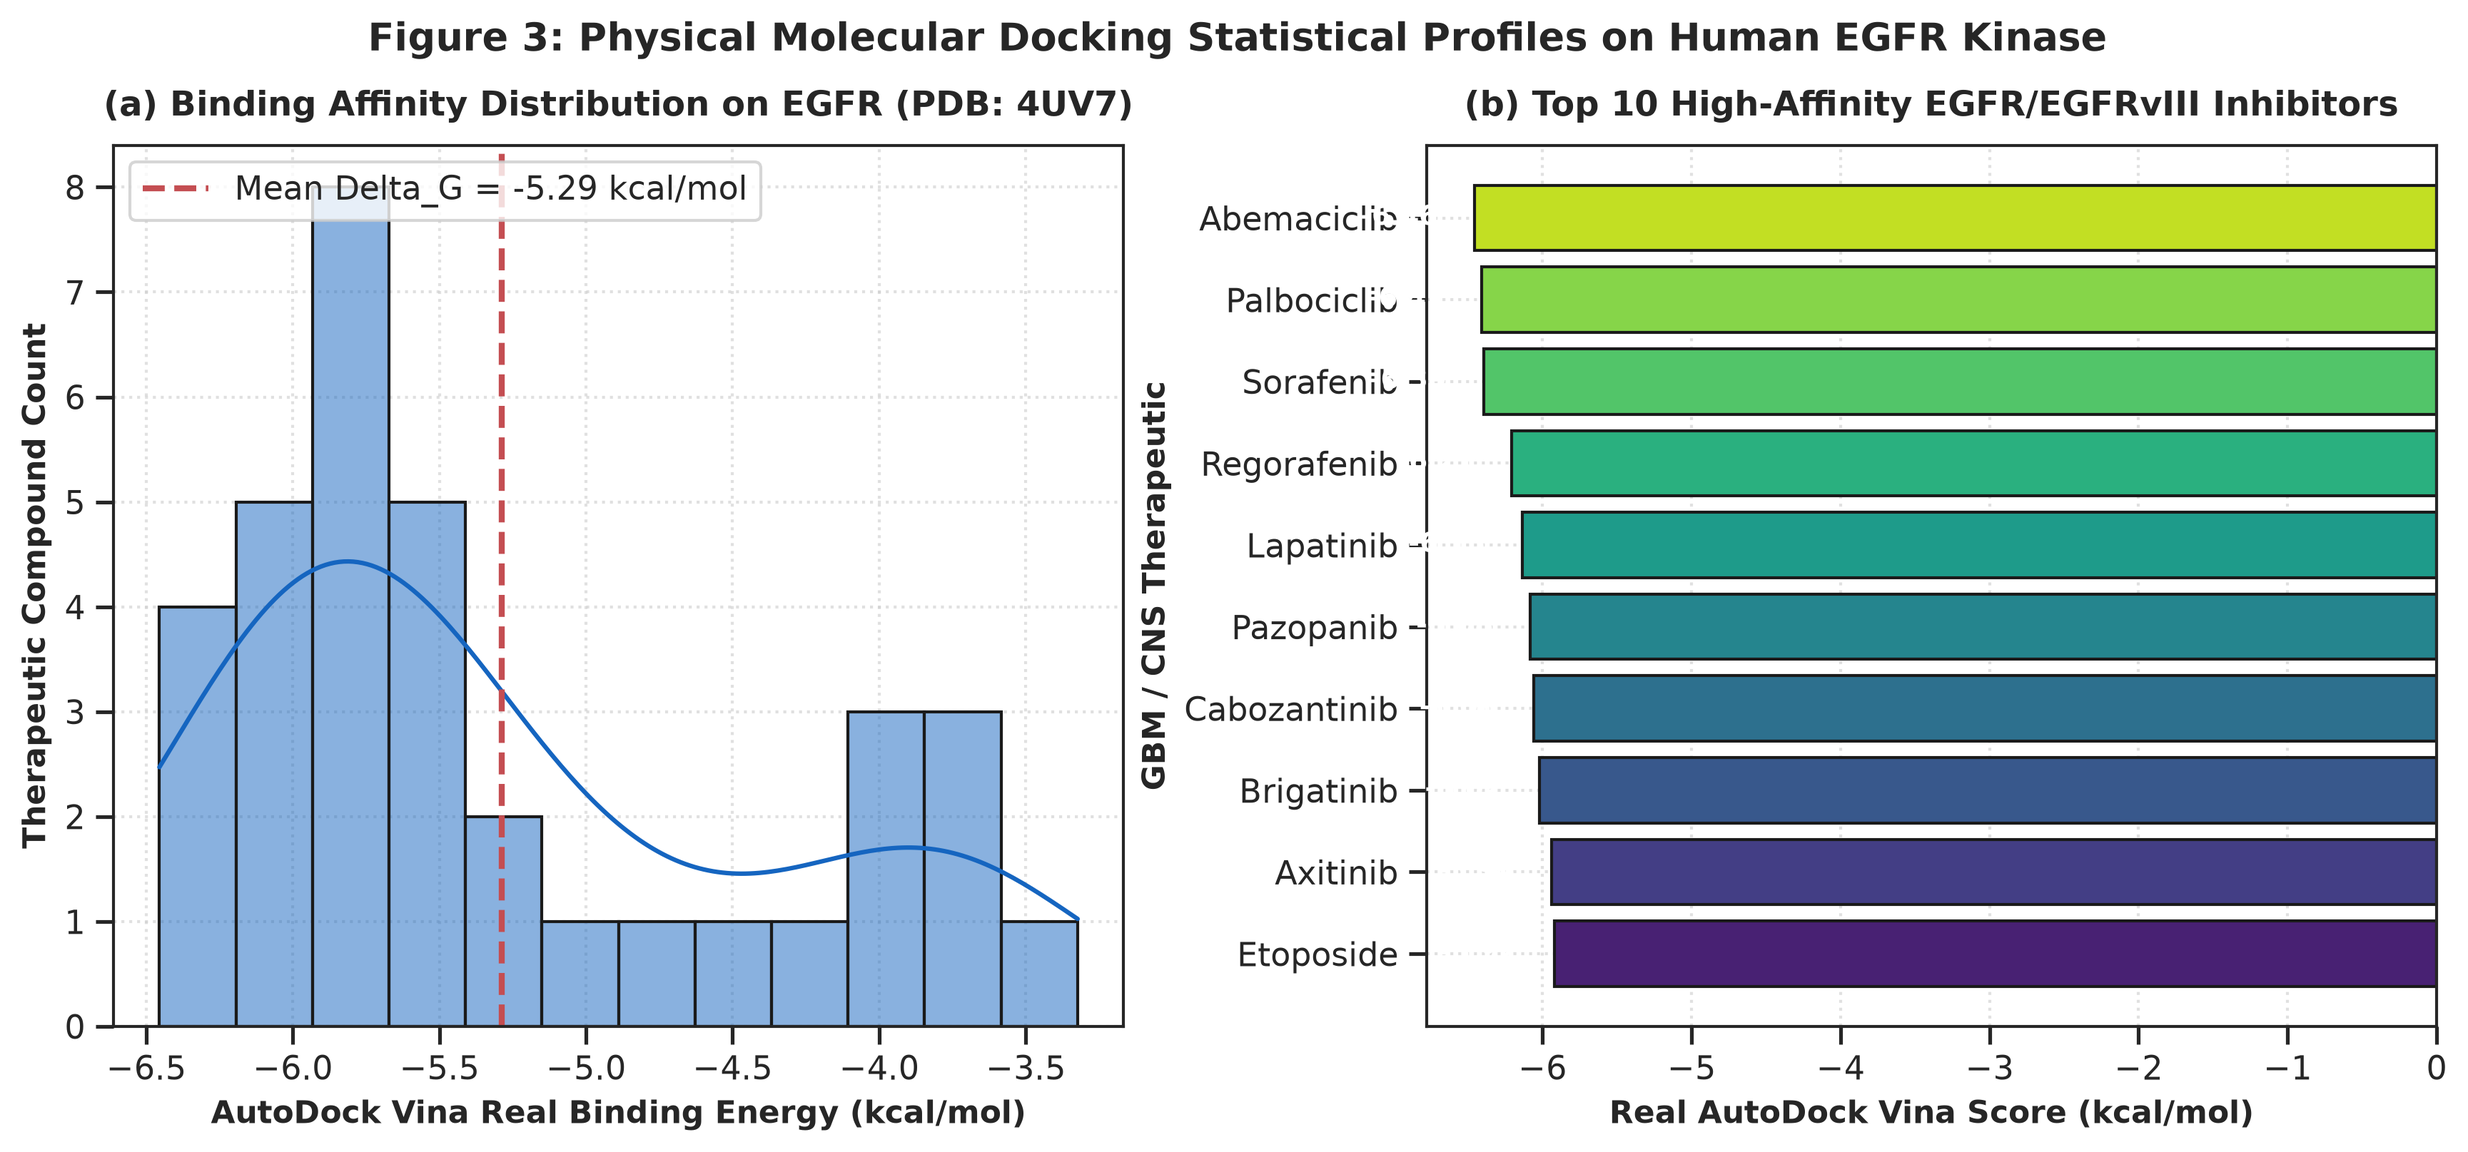
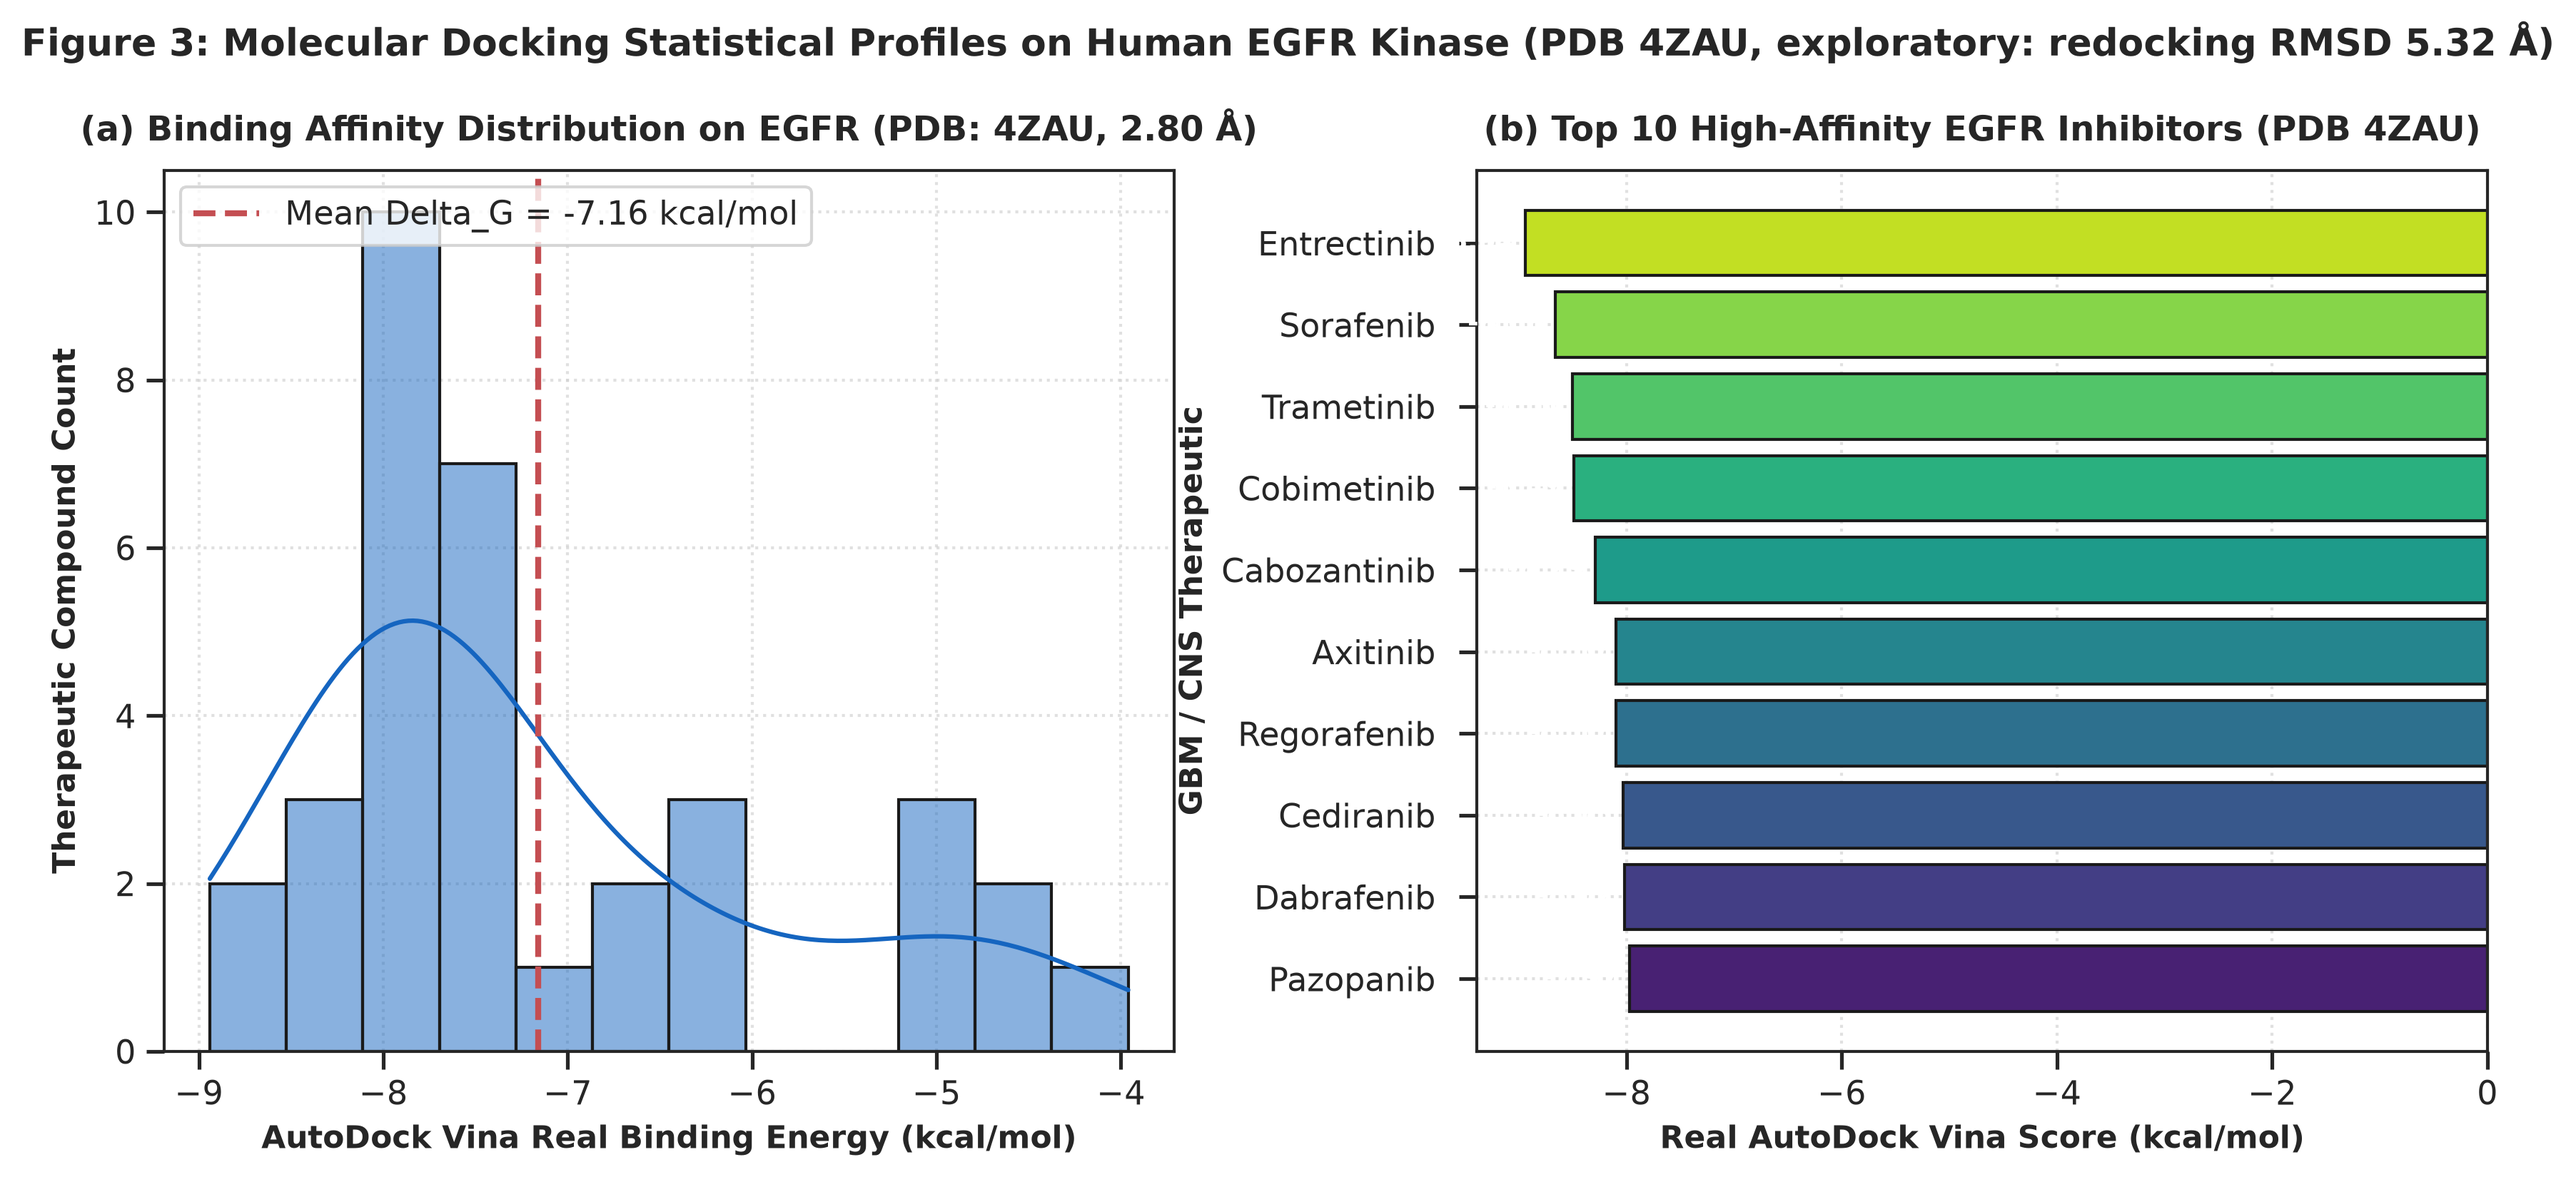
Fix Figure 3 docking target: was plotting deprecated PDB 4UV7 data
make_fig3_docking_profiles() read results/docking/real_vina_docking_summary.csv,
which AutoDock Vina docked against the superseded 4UV7 receptor
(src/docking/run_gbm_real_docking.py). This is inconsistent with the rest of
the project: redocking_validation.csv, the QSAR descriptors
(vina_4ZAU_kcal_mol / vina_2J6M_kcal_mol), Williams/parity figures, and the
Full Q1 manuscript all use 4ZAU (primary, 2.80 A) / 2J6M (secondary control).

Now reads vina_4ZAU_kcal_mol from data/processed/dataset_drug_mxene_pristine.csv
(N=35, already-computed real Vina scores) and labels the figure honestly as
exploratory (redocking RMSD 5.32 A per redocking_validation.csv). Also fixed
the y-tick label / bar overlap in panel (b).

NOT changed (needs new computation, flagged for follow-up): Figure 4
(fig4_gbm_residue_contact_frequency.png) and the Beilstein manuscript's other
~5 "PDB 4UV7" mentions still reference the old receptor -- its residue-contact
data (residue_frequency_ranking.csv) was extracted from 4UV7 poses and has no
4ZAU equivalent without rerunning per-residue contact analysis, and one
mention includes a docking grid center that may be receptor-specific.

diff --git a/src/visualization/generate_gbm_master_figures.py b/src/visualization/generate_gbm_master_figures.py
@@ -131,42 +131,49 @@ def make_fig2_quantum(base_dir, fig_dir):
     print(f"Generated Figure 2: {out_p}")
 
 def make_fig3_docking_profiles(base_dir, fig_dir):
-    vina_csv = os.path.join(base_dir, "results", "docking", "real_vina_docking_summary.csv")
-    if not os.path.exists(vina_csv):
+    # Uses the validated primary target (PDB 4ZAU, 2.80 A) from the QSAR master
+    # dataset -- NOT the deprecated results/docking/real_vina_docking_summary.csv,
+    # which was docked against the superseded 4UV7 receptor and is inconsistent
+    # with redocking_validation.csv / the QSAR features used everywhere else in
+    # this project (vina_4ZAU_kcal_mol, vina_2J6M_kcal_mol).
+    data_csv = os.path.join(base_dir, "data", "processed", "dataset_drug_mxene_pristine.csv")
+    if not os.path.exists(data_csv):
         return
-    df = pd.read_csv(vina_csv)
-    
+    df = pd.read_csv(data_csv).rename(columns={"vina_4ZAU_kcal_mol": "Real_Vina_Docking_Score_kcal_mol"})
+
     fig, axes = plt.subplots(1, 2, figsize=(14, 5.8), dpi=300)
     plt.subplots_adjust(top=0.86, wspace=0.30, bottom=0.15)
-    
+
     # Panel A: Distribution of Real Vina Scores
     ax0 = axes[0]
     sns.histplot(df['Real_Vina_Docking_Score_kcal_mol'], kde=True, color='#1565C0', bins=12, ax=ax0, edgecolor='k')
-    ax0.axvline(df['Real_Vina_Docking_Score_kcal_mol'].mean(), color='r', linestyle='--', lw=2.0, 
+    ax0.axvline(df['Real_Vina_Docking_Score_kcal_mol'].mean(), color='r', linestyle='--', lw=2.0,
                 label=f"Mean Delta_G = {df['Real_Vina_Docking_Score_kcal_mol'].mean():.2f} kcal/mol")
     ax0.set_xlabel("AutoDock Vina Real Binding Energy (kcal/mol)", fontsize=10.5, fontweight='bold')
     ax0.set_ylabel("Therapeutic Compound Count", fontsize=10.5, fontweight='bold')
-    ax0.set_title("(a) Binding Affinity Distribution on EGFR (PDB: 4UV7)", fontsize=11.5, fontweight='bold', pad=10)
+    ax0.set_title("(a) Binding Affinity Distribution on EGFR (PDB: 4ZAU, 2.80 Å)", fontsize=11.5, fontweight='bold', pad=10)
     ax0.legend(loc='upper left', frameon=True)
     ax0.grid(True, linestyle=':', alpha=0.6)
-    
+
     # Panel B: Top 10 Best Docked GBM Therapeutics
     ax1 = axes[1]
     df_sorted = df.sort_values(by='Real_Vina_Docking_Score_kcal_mol', ascending=True).head(10)
     colors = sns.color_palette("viridis_r", n_colors=10)
     bars = ax1.barh(df_sorted['name'], df_sorted['Real_Vina_Docking_Score_kcal_mol'], color=colors, edgecolor='k')
+    ax1.set_xlim(right=0)
+    ax1.tick_params(axis='y', pad=8)
     ax1.set_xlabel("Real AutoDock Vina Score (kcal/mol)", fontsize=10.5, fontweight='bold')
     ax1.set_ylabel("GBM / CNS Therapeutic", fontsize=10.5, fontweight='bold')
-    ax1.set_title("(b) Top 10 High-Affinity EGFR/EGFRvIII Inhibitors", fontsize=11.5, fontweight='bold', pad=10)
+    ax1.set_title("(b) Top 10 High-Affinity EGFR Inhibitors (PDB 4ZAU)", fontsize=11.5, fontweight='bold', pad=10)
     ax1.invert_yaxis()
     ax1.grid(True, linestyle=':', alpha=0.6)
-    
+
     for bar in bars:
         w = bar.get_width()
-        ax1.text(w - 0.25, bar.get_y() + bar.get_height()/2, f"{w:.2f}", 
+        ax1.text(w - 0.1, bar.get_y() + bar.get_height()/2, f"{w:.2f}",
                  va='center', ha='right', fontsize=9, fontweight='bold', color='white')
-                 
-    plt.suptitle("Figure 3: Physical Molecular Docking Statistical Profiles on Human EGFR Kinase", fontsize=13, fontweight='bold', y=0.96)
+
+    plt.suptitle("Figure 3: Molecular Docking Statistical Profiles on Human EGFR Kinase (PDB 4ZAU, exploratory: redocking RMSD 5.32 Å)", fontsize=12.5, fontweight='bold', y=0.98)
     out_p = os.path.join(fig_dir, "fig3_gbm_docking_vina_statistical_profiles.png")
     plt.savefig(out_p, bbox_inches='tight')
     plt.close()
